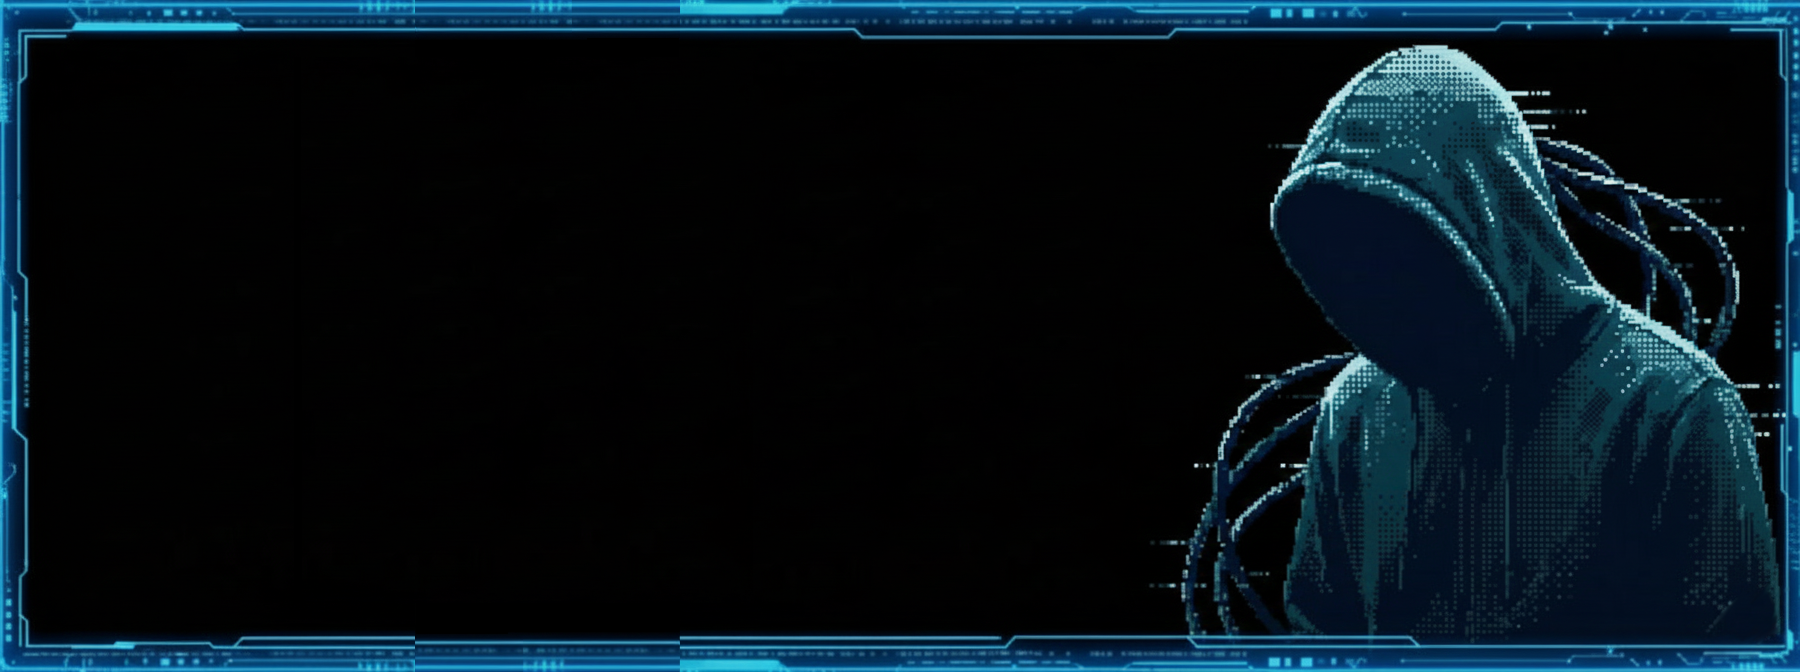
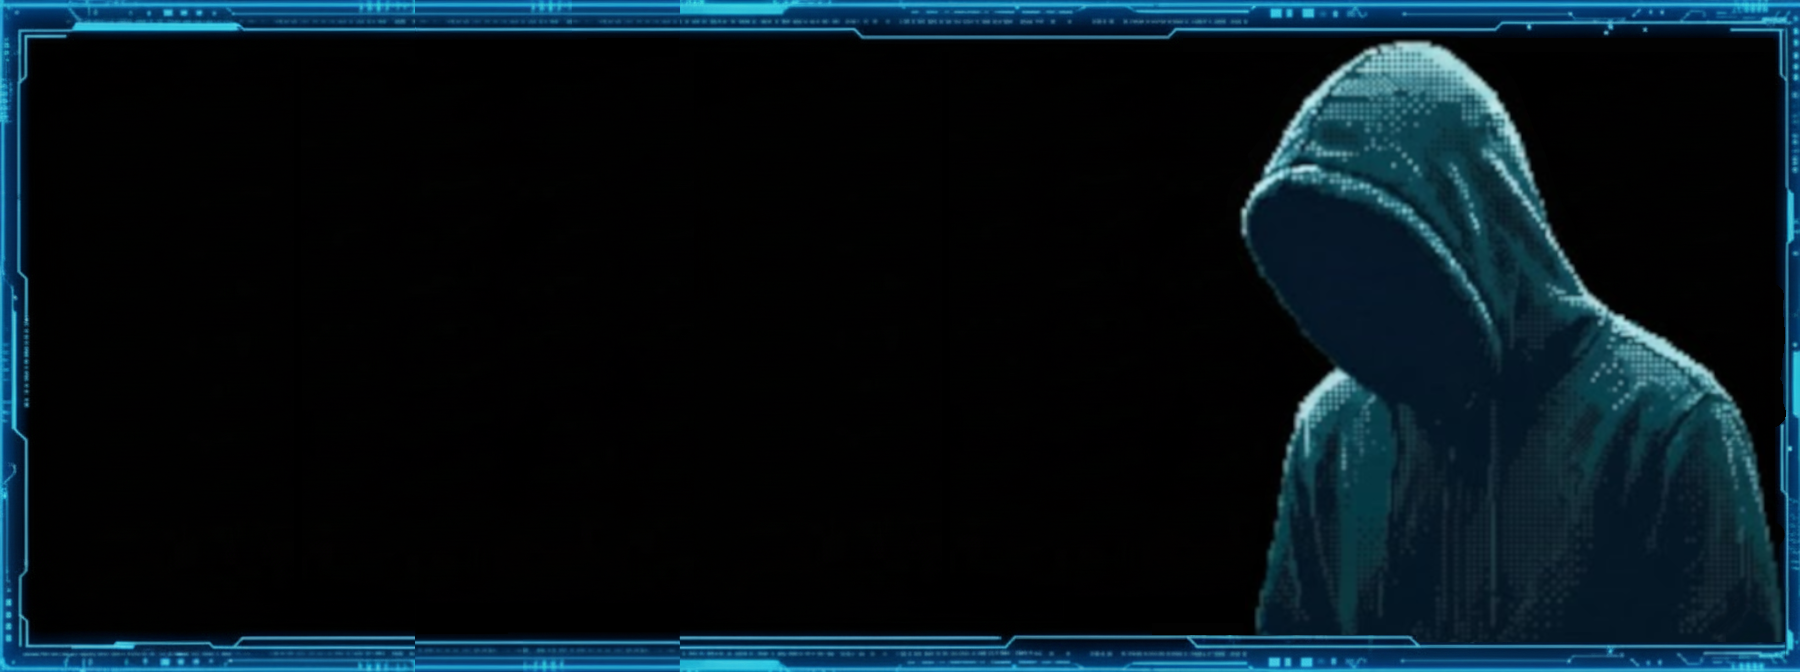
modified css and edited hackerassets

Changed region(s): [[0.6533, 0.0625, 0.9956, 0.9688]]

diff --git a/css/missionplaystyles.css b/css/missionplaystyles.css
@@ -178,3 +178,273 @@ body{
 #objectivecontent {
     margin-left: 25px;
 }
+
+.sidebarcontentimg {
+    display: flex;
+    flex-direction: row;
+    width: 100%;
+    flex: 1;
+}
+
+/* LEFT HALF (IMAGE) */
+.imgwrap {
+    width: 150px;
+    flex: 0 0 150px;
+    overflow: hidden;
+}
+
+.imgwrap img {
+    width: 100%;
+    height: auto;        /* preserve aspect ratio */
+    min-height: 100%;    /* ensure it fills vertically when possible */
+    object-fit: contain; /* DO NOT crop width */
+    object-position: left bottom;
+}
+
+/* RIGHT HALF (EMPTY) */
+.replaybuttonimgwrap {
+    height: 100%;
+    display: flex;
+    justify-content: center; /* horizontal center */
+    align-items: center;     /* vertical center */
+    overflow: hidden;        /* crop any overflow */
+}
+
+@font-face {
+    font-family: 'Comfortaa';
+    src: url('../assets/Comfortaa-VariableFont_wght.ttf') format('truetype');
+    font-weight: normal;
+    font-style: normal;
+}
+
+html, body {
+  overflow-x: hidden;
+}
+
+body{
+    margin-left: 250px;
+}
+
+.terminal {
+    overflow-y: scroll;       /* enables scrolling */
+    scrollbar-width: none;    /* Firefox */
+    background: #181927;     /* darker bluish background */
+    color: #00deee;           /* neon cyan text */
+    font-family: 'Consolas', monospace;
+    padding: 20px;
+    margin: 0px;
+    width: calc(95vw - 250px);
+    height: 90vh;
+    overflow-y: auto;
+    position: relative;
+    overflow-wrap: break-word;
+    word-break: break-all;
+}
+
+.sidebar {
+    margin-right: 5px;
+    display: flex;
+    flex-direction: column;
+    position: fixed;
+    top: 0;
+    left: 0;
+    height: 100vh;
+    width: 250px;
+    user-select: none;
+    z-index: 1000;
+}
+
+
+.sidetitle {
+    display: flex;
+    align-items: center;     /* vertical center */
+    justify-content: center; /* horizontal center */
+
+    padding: 10px 0;
+    width: 100%;
+    font-family: 'Comfortaa';
+    font-size: larger;
+    border: 1px solid #00f0ff;
+}
+
+.objectives,.neededcommands,.hackerhelp {
+   
+    background: #02041d;
+    border: 2px solid #00f0ff;
+    box-shadow: 0 0 5px #00f0ff, 0 0 10px #00f0ff inset;
+    flex: 1;
+    display: flex;
+    justify-content: start;
+    flex-direction: column;
+    align-items: center;
+}
+
+
+.dialogueBox {
+    overflow: visible;
+    position: absolute;
+    top: 50%;
+    left: 50%;
+    transform: translate(-50%, -50%);
+    width: 720px;
+    height: 269px;
+    background-image: url("../assets/HackerDialogueBorder.png");
+    background-size: contain;
+    background-repeat: no-repeat;
+    background-position: center;
+    padding: 0;
+    display: none;
+    z-index: 9999;
+    
+}
+
+.close-btn {
+    position: absolute;
+    top: 8px;
+    right: 12px;
+    background: transparent;
+    border: none;
+    color: #00f0ff;
+    font-size: 1.7em;
+    cursor: pointer;
+}
+
+.dialogueTerminal {
+    position: absolute;
+    bottom: 17px;
+    left: 25px;
+    right: 235px;
+    top: 24px;
+
+    display: flex;
+    flex-direction: column; /* normal flow top → bottom */
+    justify-content: flex-end; /* push content to bottom initially */
+
+    overflow-y: auto;
+    scrollbar-width: none;
+    -ms-overflow-style: none;
+}
+
+.dialogueTerminal::-webkit-scrollbar { display: none; }
+
+.dialogueTerminal div {
+    white-space: pre-wrap;
+    font-family: 'Glitchy', 'Fira Mono', monospace;
+    color: #00f0ff; /* neon cyan text */
+    font-size: 20px;
+    line-height: 1.15em;
+}
+
+#continuebuttondialogue:hover {
+    background-color: #0a0c33;
+    box-shadow: 0 0 10px #00f0ff, 0 0 15px #00f0ff inset; 
+    box-shadow: 0 0 15px #00f0ff, 0 0 15px #00f0ff inset; 
+    border-color: #00ffff; /* brighter neon cyan */
+    cursor: pointer; /* indicates it's interactive */
+    transition: all 0.05s ease; /* smooth transition */
+}
+
+#continuebuttondialogue {
+    user-select: none;
+    font-family: Comfortaa;
+    font-size: larger;
+    display: flex;
+    align-items: center;
+    justify-content: center;
+    vertical-align: center;
+    position: absolute;
+    width: 200px;
+    height: 50px;
+    background-color: #02041d;
+    border: 2px solid #00f0ff;
+    box-shadow: 0 0 5px #00f0ff, 0 0 10px #00f0ff inset;
+    top: calc(100% + 15px);
+    left: 50%;
+    transform: translateX(-50%);
+}
+
+.sidebarcontent {
+    width: 100%;
+    height: 100%;
+    padding: 10px;
+    font-family: 'Comfortaa';
+    font-size:medium
+}
+
+.commandflexbox {
+    display: flex;
+    /* Default is row; if you want them stacked like blocks, use: flex-direction: column; */
+    border: 1px solid #ccc; /* Added just to visualize the boxes */
+    height: 100%; /* This tells it to take up 100% of the container it's in */
+
+}
+
+.commandcolumn {
+    flex: 1;                /* Grow to fill 100% of the parent's width/height */
+    display: flex;          /* Allows internal alignment */
+    justify-content: center; /* Centers text horizontally */
+    align-items: center;    /* Centers text vertically */
+    border: 1px solid #ccc; /* Added just to visualize the boxes */
+}
+
+#objectivecontent {
+    margin-left: 25px;
+}
+
+.sidebarcontentimg {
+    display: flex;
+    flex-direction: row;
+    width: 100%;
+}
+
+/* LEFT HALF (IMAGE) */
+.imgwrap {
+    overflow: hidden;
+    flex: 1;                /* Grow to fill 100% of the parent's width/height */
+    display: flex;          /* Allows internal alignment */
+    justify-content: center; /* Centers text horizontally */
+    align-items: center;    /* Centers text vertically */
+}
+
+.imgwrap img {
+    width: 100%;
+    height: auto;        /* preserve aspect ratio */
+    min-height: 100%;    /* ensure it fills vertically when possible */
+    object-fit: contain; /* DO NOT crop width */
+    object-position: left bottom;
+}
+.replaybuttonimgwrap {
+    width: 100px;              /* fixed width of the wrapper */
+    height: auto;            /* fixed height of the wrapper */
+    display: flex;             
+    justify-content: center;    /* horizontal center */
+    align-items: center;        /* vertical center */
+    overflow: hidden;           /* crop any overflow */
+    flex: 1;                /* Grow to fill 100% of the parent's width/height */
+    display: flex;          /* Allows internal alignment */
+    justify-content: center; /* Centers text horizontally */
+    align-items: center;    /* Centers text vertically */
+    border: 1px solid #ccc; /* Added just to visualize the boxes */
+    margin: 10px;
+    margin-top: 50px;
+    margin-bottom: 50px;
+    background-color: #080c63;
+    border: 2px solid #00f0ff;
+    box-shadow: 0 0 5px #00f0ff, 0 0 10px #00f0ff inset;
+}
+
+.replaybuttonimgwrap img {
+    
+    width: 50%;
+    height: 50%;
+    object-fit: contain;
+    display: block;
+}
+
+.replaybuttonimgwrap:hover {
+    box-shadow: 0 0 10px #00f0ff, 0 0 15px #00f0ff inset; 
+    box-shadow: 0 0 15px #00f0ff, 0 0 15px #00f0ff inset; 
+    border-color: #00ffff; /* brighter neon cyan */
+    cursor: pointer; /* indicates it's interactive */
+    transition: all 0.1s ease; /* smooth transition */
+}

diff --git a/css/dashboardstyles.css b/css/dashboardstyles.css
@@ -20,6 +20,14 @@
     z-index: 100; /* optional, ensures it’s above other elements */
 }
 
+.homebutton:hover {
+    background-color: #0a0c33;
+    box-shadow: 0 0 10px #00f0ff, 0 0 15px #00f0ff inset; 
+    box-shadow: 0 0 15px #00f0ff, 0 0 15px #00f0ff inset; 
+    border-color: #00ffff; /* brighter neon cyan */
+    cursor: pointer; /* indicates it's interactive */
+    transition: all 0.1s ease; /* smooth transition */
+}
 body {
     background: #181927;
     font-family: Comfortaa, Arial, sans-serif;

diff --git a/missionplay.html b/missionplay.html
@@ -45,10 +45,20 @@
         </div>
     </div>
     <div class="hackerhelp">
-        <div class="sidetitle">
-            Information
+    <div class="sidetitle">
+        Information
+    </div>
+
+    <div class="sidebarcontentimg">
+        <div class="imgwrap">
+            <img src="./assets/sidewayshacker.png" alt="">
+        </div>
+        <div class="replaybuttonimgwrap">
+            <img src="./assets/restart.png" alt="">
         </div>
     </div>
+</div>
+
 
 </div>
 
